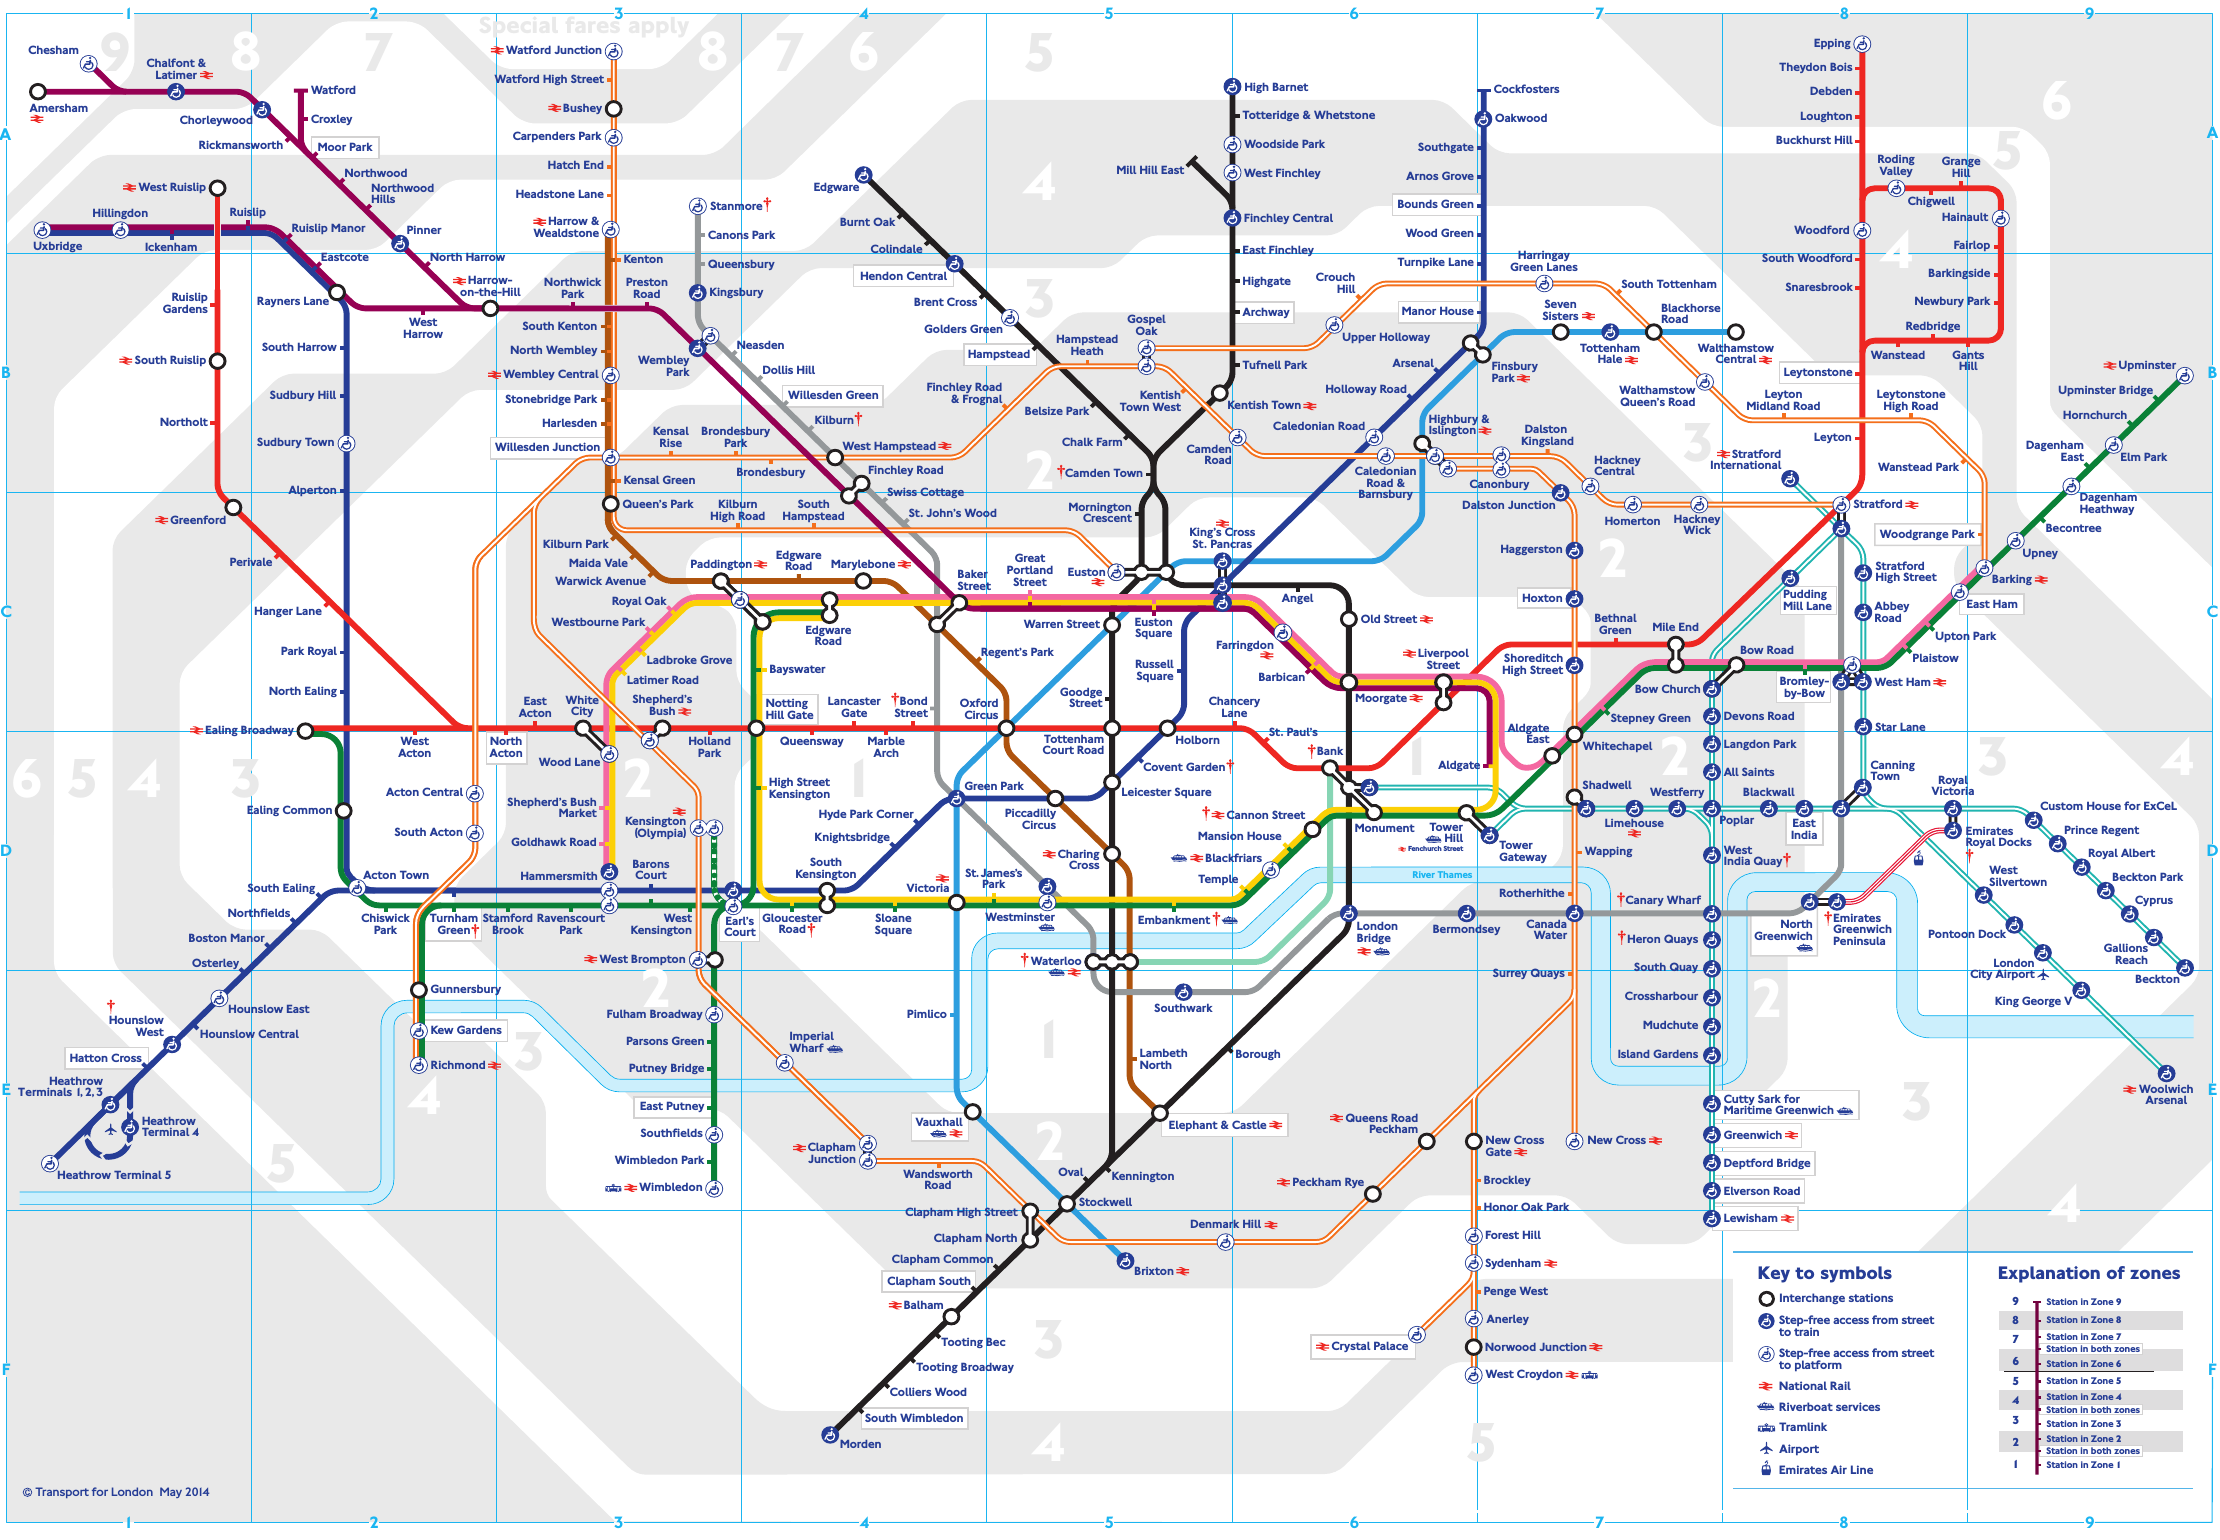
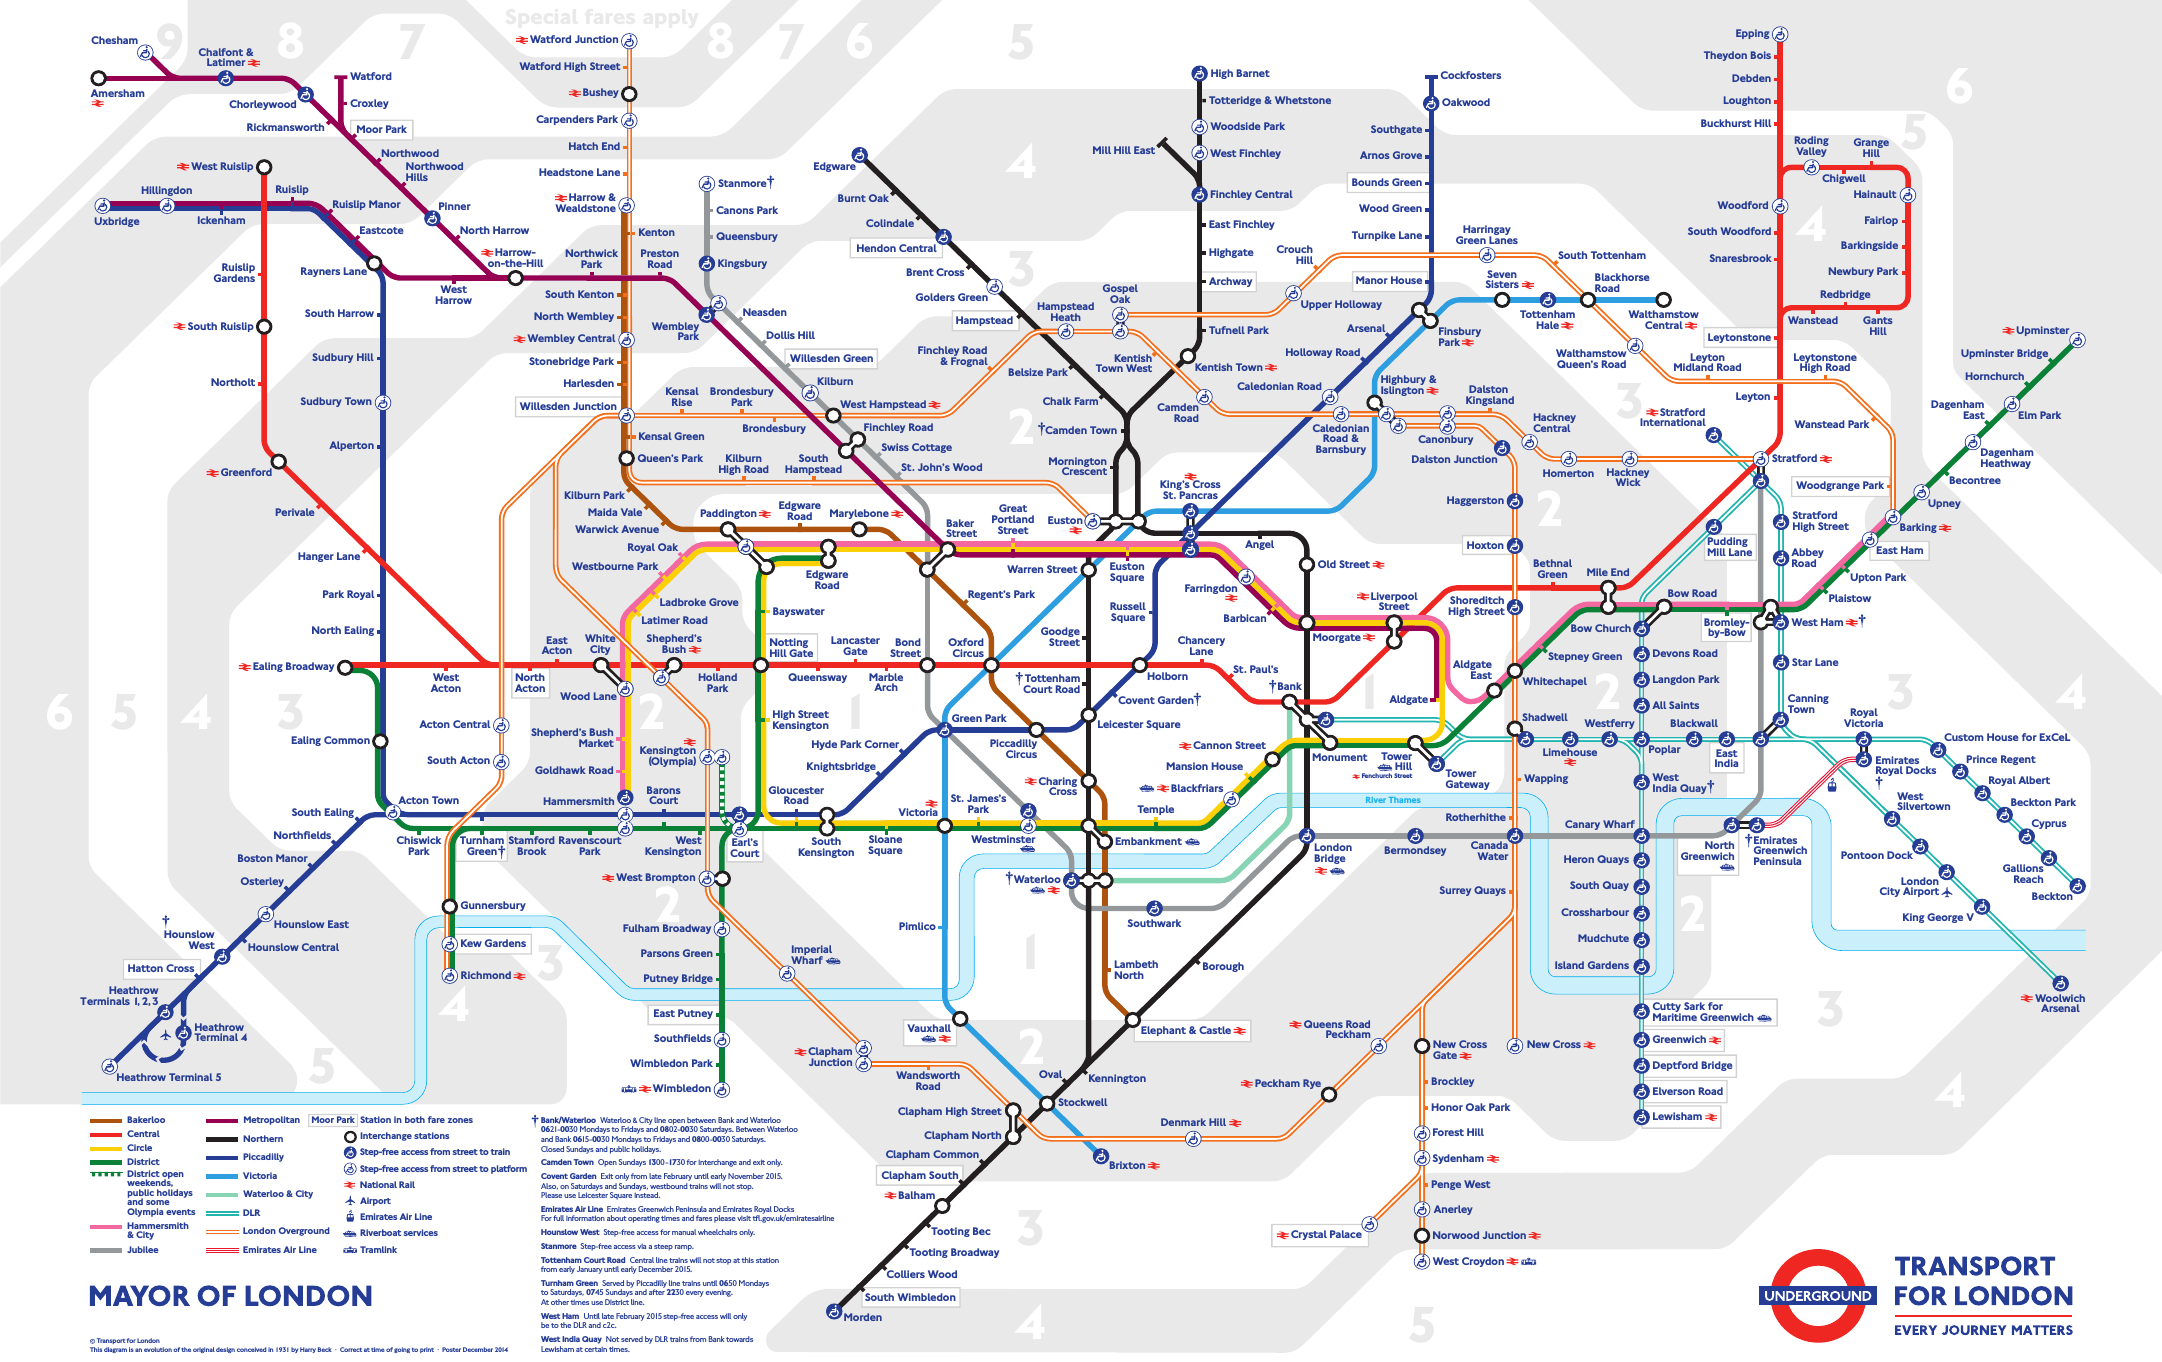
Bumped version to 0.4.5 and added new tube map
Bumped version, added new tube map and edited changelog to reflect
current changes.

diff --git a/qml/pages/ChangelogPage.qml b/qml/pages/ChangelogPage.qml
@@ -57,6 +57,23 @@ Page {
                 wrapMode: Text.WordWrap
                 color: Theme.highlightColor
                 textFormat: Text.RichText
+                text: "<b>0.4.5 - Rearrange Favorites.</b><br>
+*Added Feature: User can now rearrange favorite items on Bus Departure Page.<br>
+*Added new Tube Map: latest tube map as of December 2014.<br>
+*Added Pulley menu to Journey Progress Page: it is now possible to manually refresh the data.<br>
+*Added cover action to refresh Journey Progress Page and Bus Stop Page.<br>
+*Fixed bug: Journey Progress page is more reliable, it doesn't show no data available that often."
+            }
+            Label {
+                anchors {
+                    left: parent.left
+                    leftMargin: Theme.paddingLarge
+                    right: parent.right
+                    rightMargin: Theme.paddingLarge
+                }
+                wrapMode: Text.WordWrap
+                color: Theme.highlightColor
+                textFormat: Text.RichText
                 text: "<b>0.4.4 - New Tube Map.</b><br>
 *Added new Tube Map: latest tube map as of May 2014. It takes up considerably more space due to higher resolution and better colours.<br>
 *Added Pulley menu to Bus Stop Page: it is now possible to manually refresh the data,

diff --git a/qml/pages/DeparturePage.qml b/qml/pages/DeparturePage.qml
@@ -146,7 +146,7 @@ Page {
                 type: typeData
                 indicator: stopPointIndicatorData
                 towards: towardsData !== "" ? "towards " + towardsData : ""
-//                distance: ""
+                distance: ""
                 code: codeData
                 rank: rankData
                 isDragable: dragArea.held

diff --git a/qml/pages/AboutPage.qml b/qml/pages/AboutPage.qml
@@ -59,7 +59,7 @@ Page {
                     right: parent.right
                     rightMargin: Theme.paddingLarge
                 }
-                text: "Version: 0.4.4"
+                text: "Version: 0.4.5"
             }
             Label {
                 id: descriptionLabel
